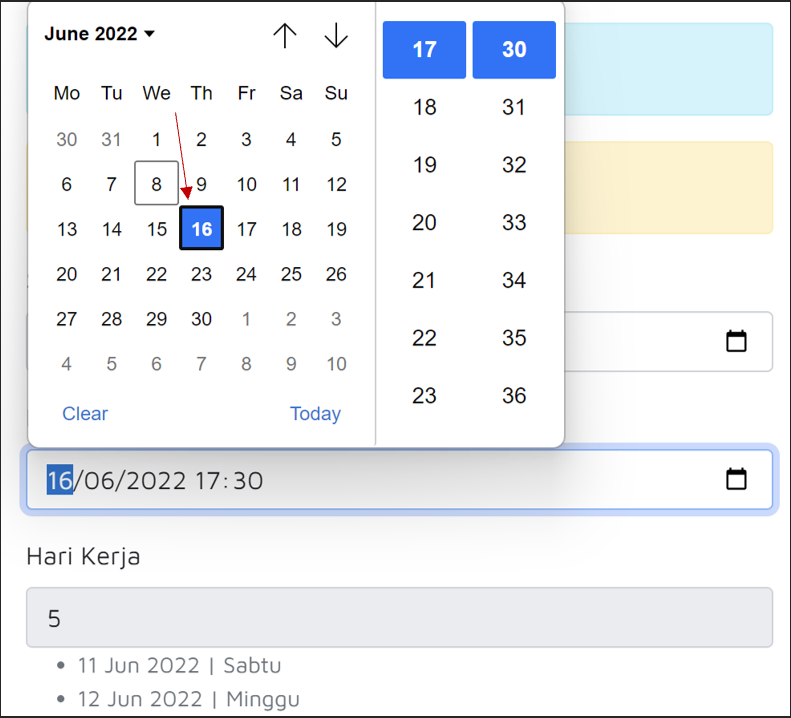
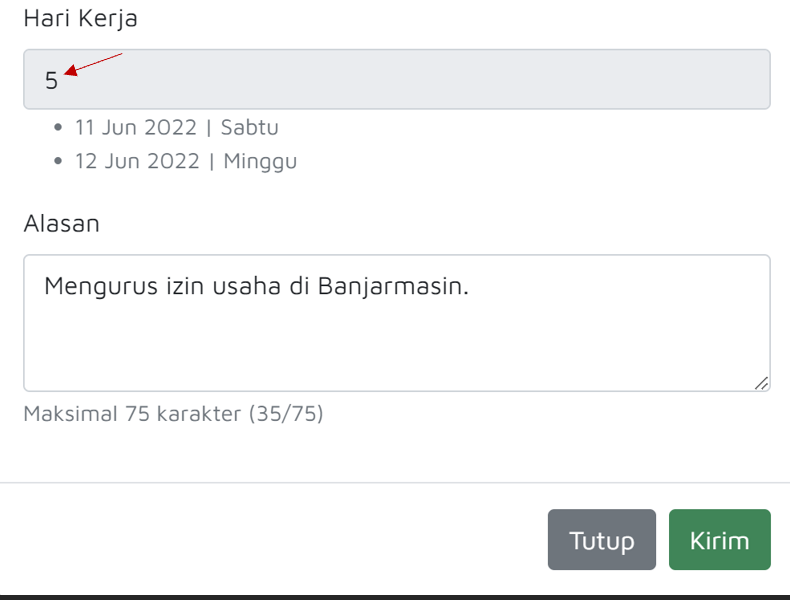
GitBook: [#76] No subject

diff --git a/cuti/buat-izin-cuti-tahunan.md b/cuti/buat-izin-cuti-tahunan.md
@@ -40,7 +40,7 @@ Contoh jika karyawan ingin mengajukan Cuti Tahunan, maka pilih Cuti Tahunan
 
 ![](<../.gitbook/assets/image (28).png>)
 
-Kemudian lihat kolom di bawah tulisan **Start**, pilih icon kalender, lalu pilih tanggal mulai cuti, contoh dipilihnya  tanggal mulai cuti adalah 10 Juni 2022.
+Kemudian lihat kolom di bawah tulisan **Start**, pilih icon kalender, lalu pilih tanggal mulai cuti, contoh dipilihnya tanggal mulai cuti adalah 10 Juni 2022.
 
 ### 4. Pilih Jam Mulai Cuti
 
@@ -50,9 +50,9 @@ Pilih jam cuti, seperti di contoh dipilih jam 8:30
 
 ### 5. Pilih Tanggal Akhir Cuti
 
-![](<../.gitbook/assets/image (36).png>)
+![](<../.gitbook/assets/image (36) (1).png>)
 
-Kemudian lihat kolom di bawah tulisan End, klik icon kalender, kemudian pilih tanggal akhir cuti, contoh dipilihnya  tanggal selesai cuti adalah 16 Juni 2022 .
+Kemudian lihat kolom di bawah tulisan End, klik icon kalender, kemudian pilih tanggal akhir cuti, contoh dipilihnya tanggal selesai cuti adalah 16 Juni 2022 .
 
 ### 6. Pilih Jam Akhir Cuti
 

diff --git a/cuti/buat-izin-dinas-luar.md b/cuti/buat-izin-dinas-luar.md
@@ -30,7 +30,7 @@ Pilih jam dinas, seperti di contoh dipilih jam 8:30
 
 ![](<../.gitbook/assets/image (18).png>)
 
-Kemudian lihat kolom di bawah tulisan **End**, klik icon kalender, kemudian pilih tanggal akhir dinas, contoh dipilihnya  tanggal selesai dinas adalah 16 Juni 2022.
+Kemudian lihat kolom di bawah tulisan **End**, klik icon kalender, kemudian pilih tanggal akhir dinas, contoh dipilihnya tanggal selesai dinas adalah 16 Juni 2022.
 
 ### 6. Pilih Jam Akhir Dinas
 
@@ -42,7 +42,7 @@ Pilih jam akhir dinas, seperti di contoh ini, dipilih jam 17:30
 
 ### 7. Jumlah Hari Kerja yang Terpakai
 
-![](<../.gitbook/assets/image (4).png>)
+![](<../.gitbook/assets/image (36).png>)
 
 Di kolom Hari Kerja akan secara otomatis menghitung jumlah hari kerja (dinas) karyawan. Harap diperiksa kembali apakah jumlah hari kerja (dinas) tersebut sudah sesuai dengan pengajuan yang karyawan akan ajukan, perhatikan hari Sabtu, Minggu, libur tanggal merah.
 
